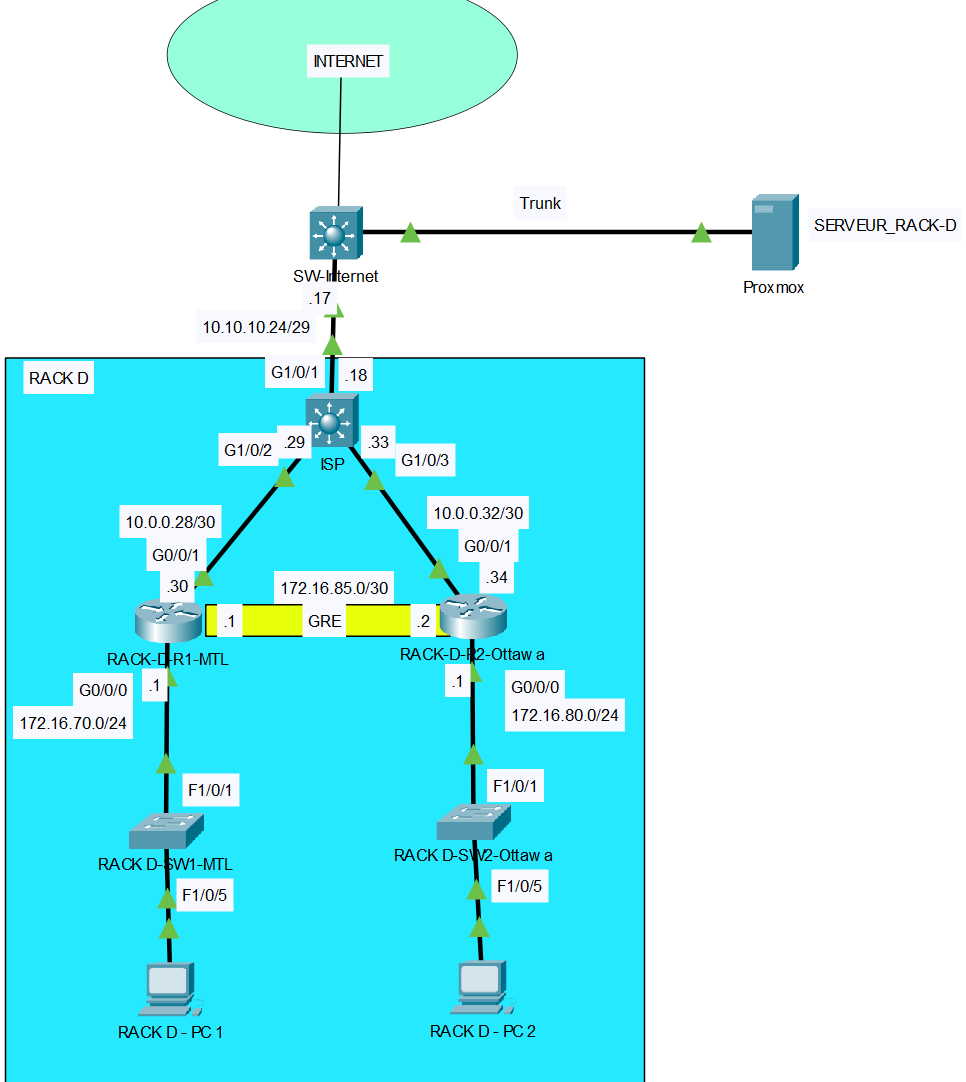
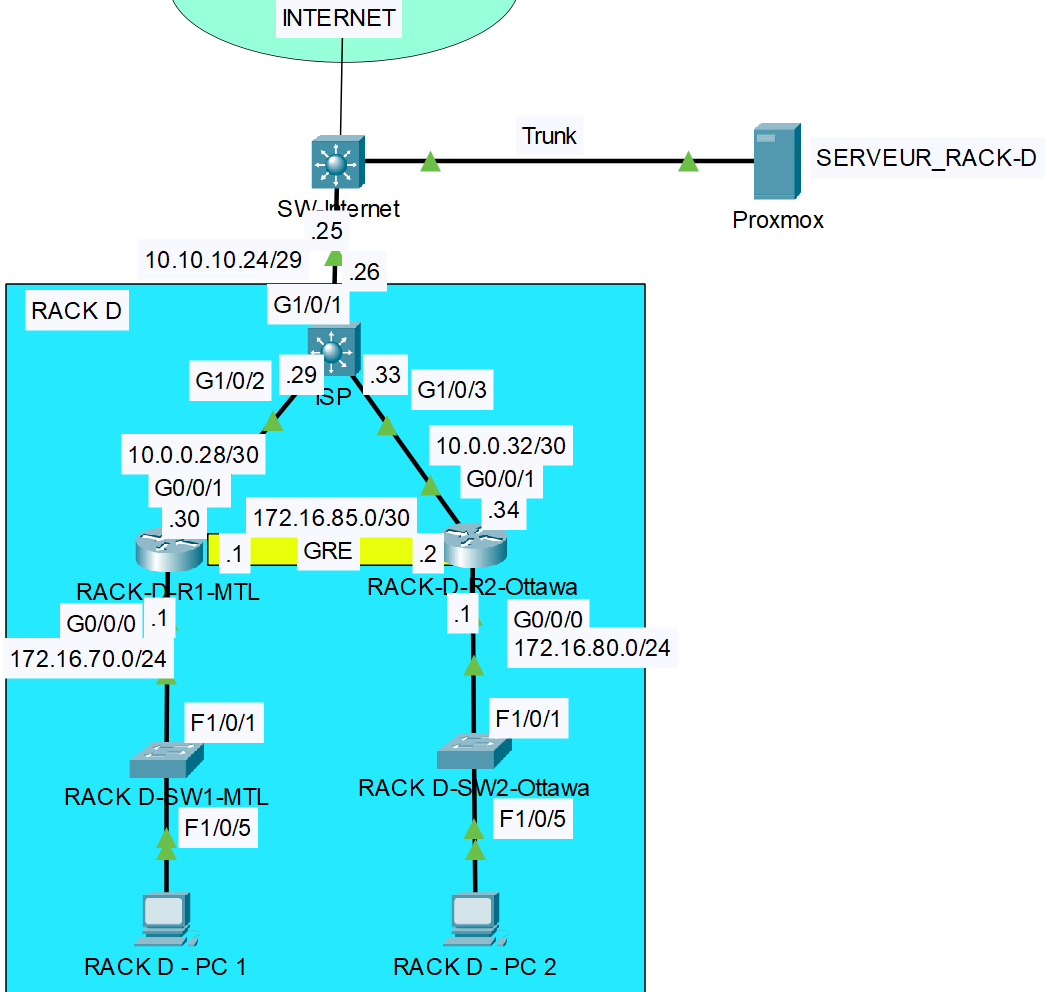
Fixed the error in the topo and table

Changed region(s): [[0.0, 0.0, 0.9938, 1.0]]

diff --git a/laboratoires/rack_d/laboratoire6.md b/laboratoires/rack_d/laboratoire6.md
@@ -8,7 +8,7 @@
 
 |Equipments|Interface     | IP Address     | Subnet Mask     | Default Gateway | Description
 |----------|--------------|---------------|----------------|------------------|------------------|
-|ISP |G1/0/1   |10.10.10.18       |255.255.255.248         | N/A|Connexion a internet 
+|ISP |G1/0/1   |10.10.10.26       |255.255.255.248         | N/A|Connexion a internet 
 |          |G1/0/2   |10.0.0.29   |255.255.255.252| N/A|Connexion a RACK-D-R1-MTL
 |          |G1/0/3   |10.0.0.33   |255.255.255.252| N/A|Connexion a RACK-D-R2-Ottawa
 |RACK-D-R1-MTL |G0/0/1   |10.0.0.30       |255.255.255.252           | N/A|Connexion a ISP

diff --git a/laboratoires/rack_d/laboratoire7.md b/laboratoires/rack_d/laboratoire7.md
@@ -8,7 +8,7 @@
 
 |Equipments|Interface     | IP Address     | Subnet Mask     | Default Gateway | Description
 |----------|--------------|---------------|----------------|------------------|------------------|
-|ISP |G1/0/1   |10.10.10.18       |255.255.255.248         | N/A|Connexion a internet 
+|ISP |G1/0/1   |10.10.10.26       |255.255.255.248         | N/A|Connexion a internet 
 |          |G1/0/2   |10.0.0.29   |255.255.255.252| N/A|Connexion a RACK-D-R1-MTL
 |          |G1/0/3   |10.0.0.33   |255.255.255.252| N/A|Connexion a RACK-D-R2-Ottawa
 |RACK-D-R1-MTL |G0/0/1   |10.0.0.30       |255.255.255.252           | N/A|Connexion a ISP
